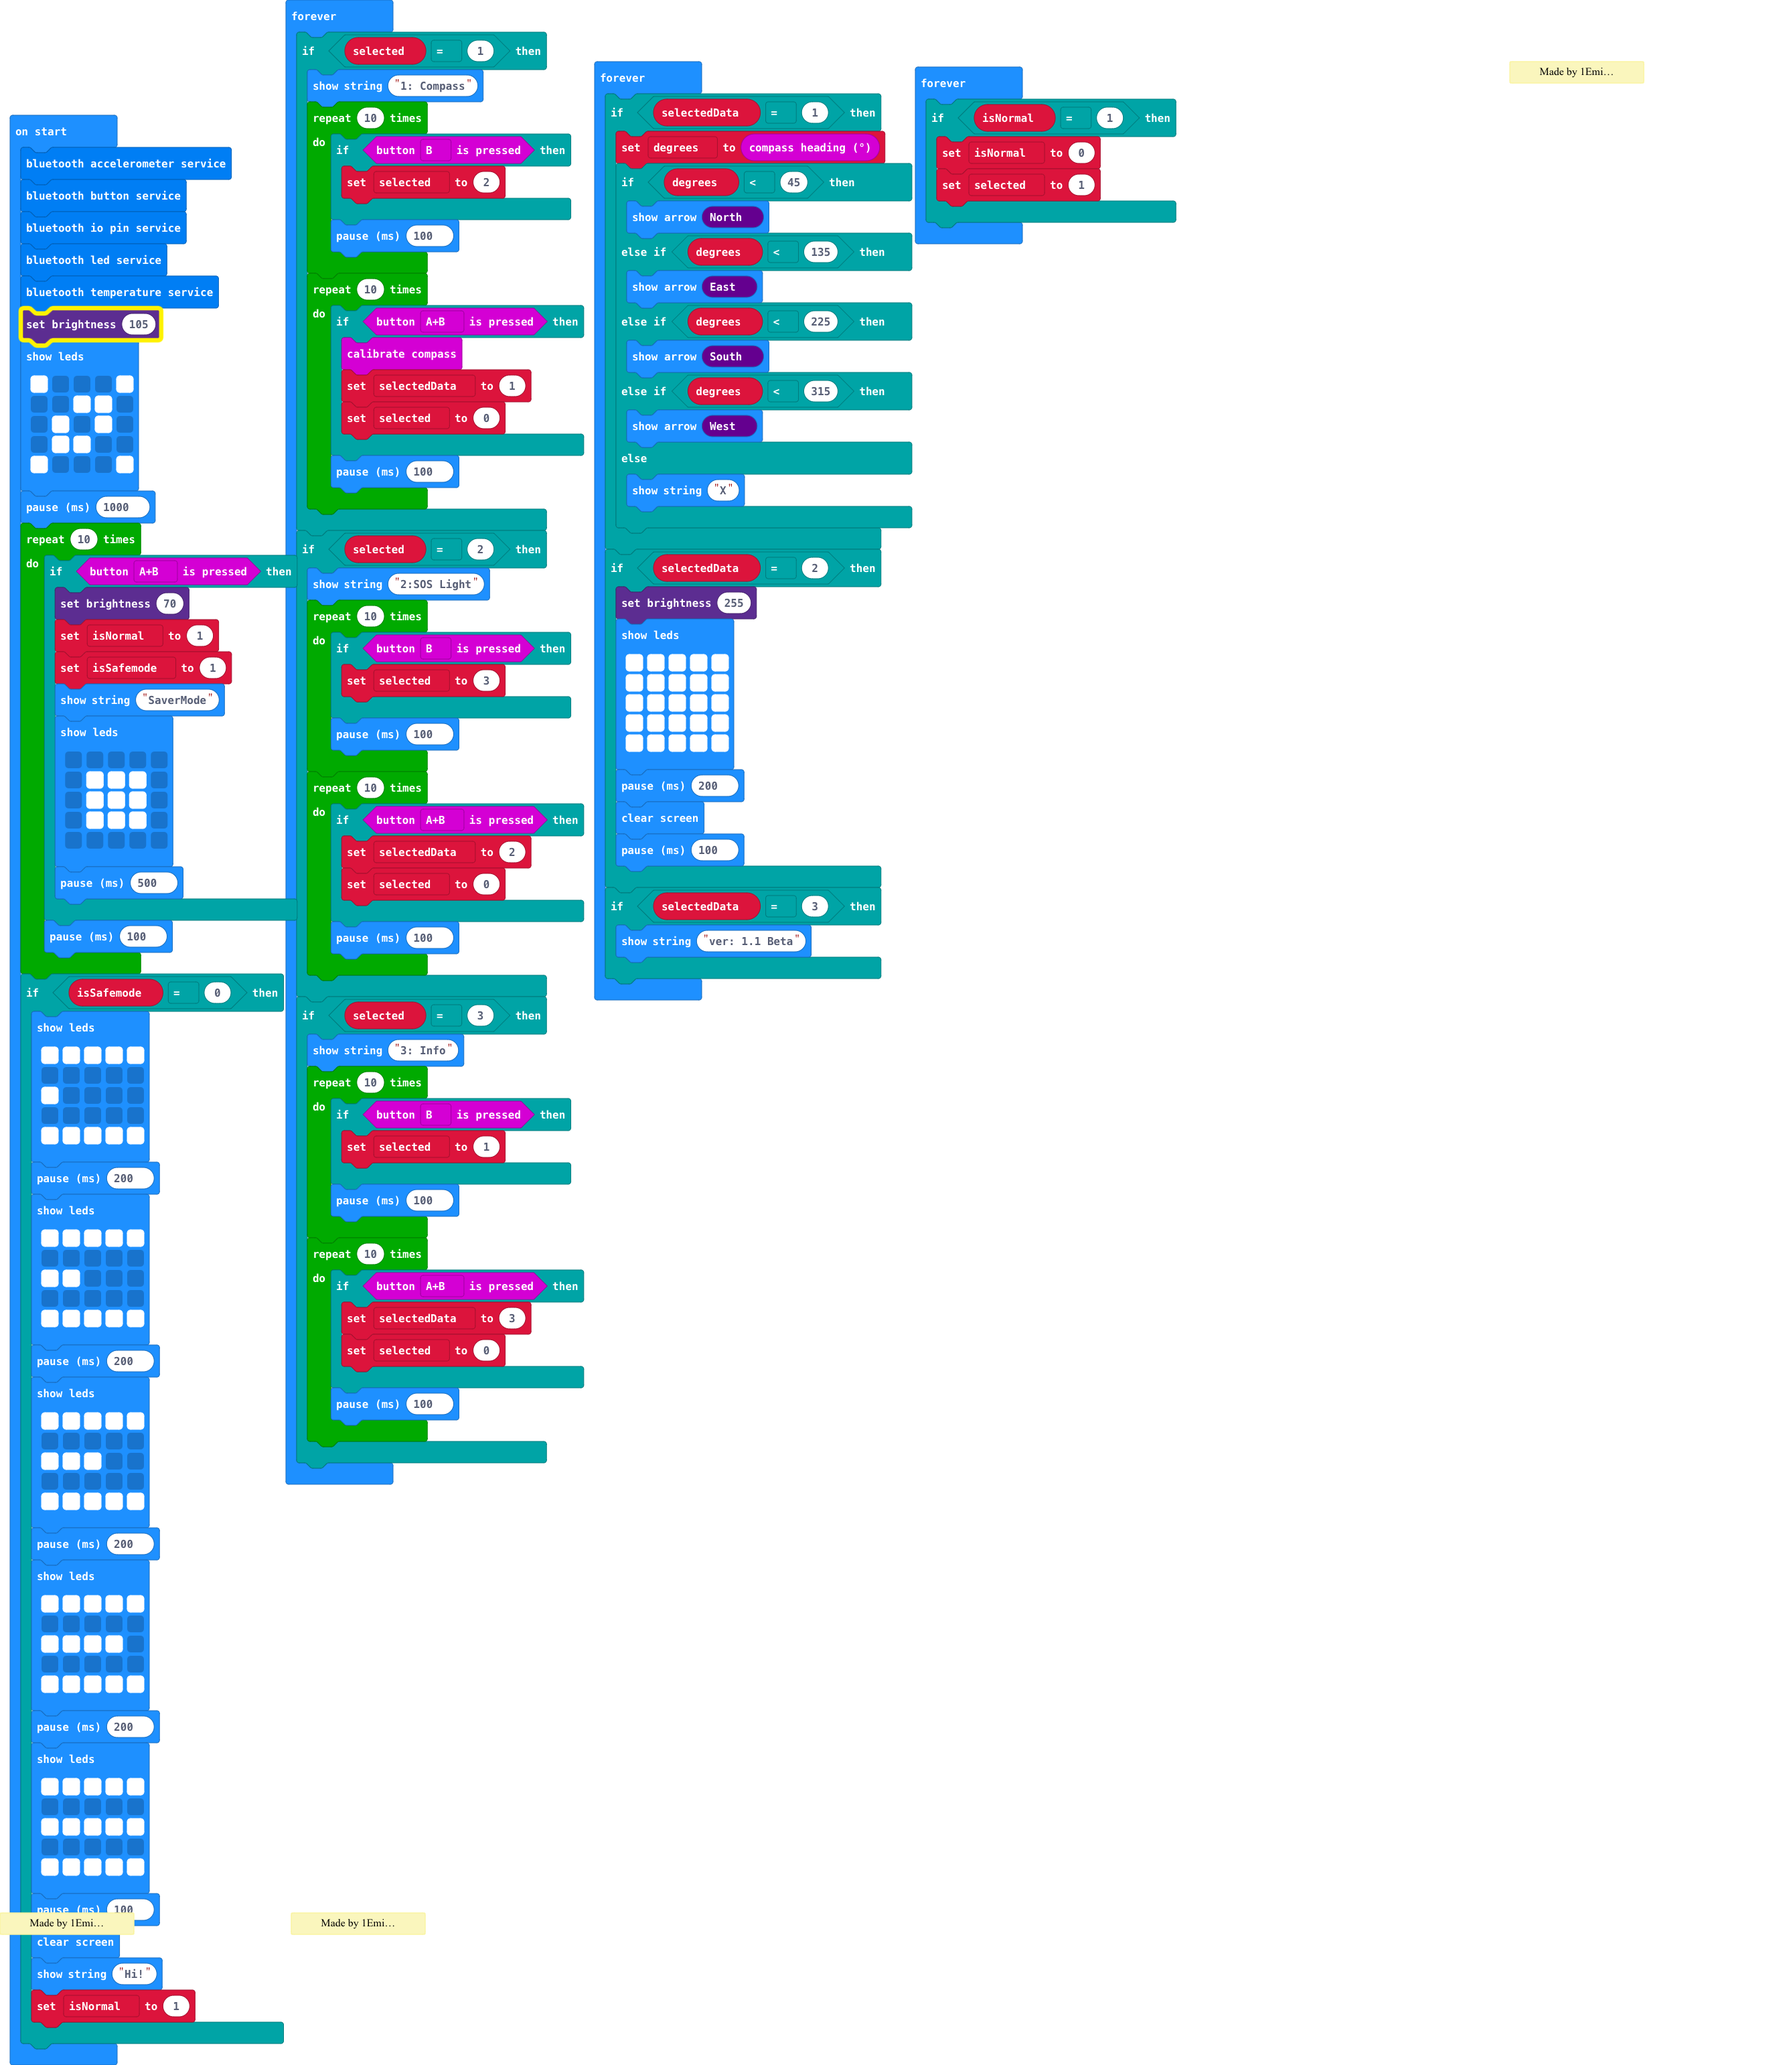
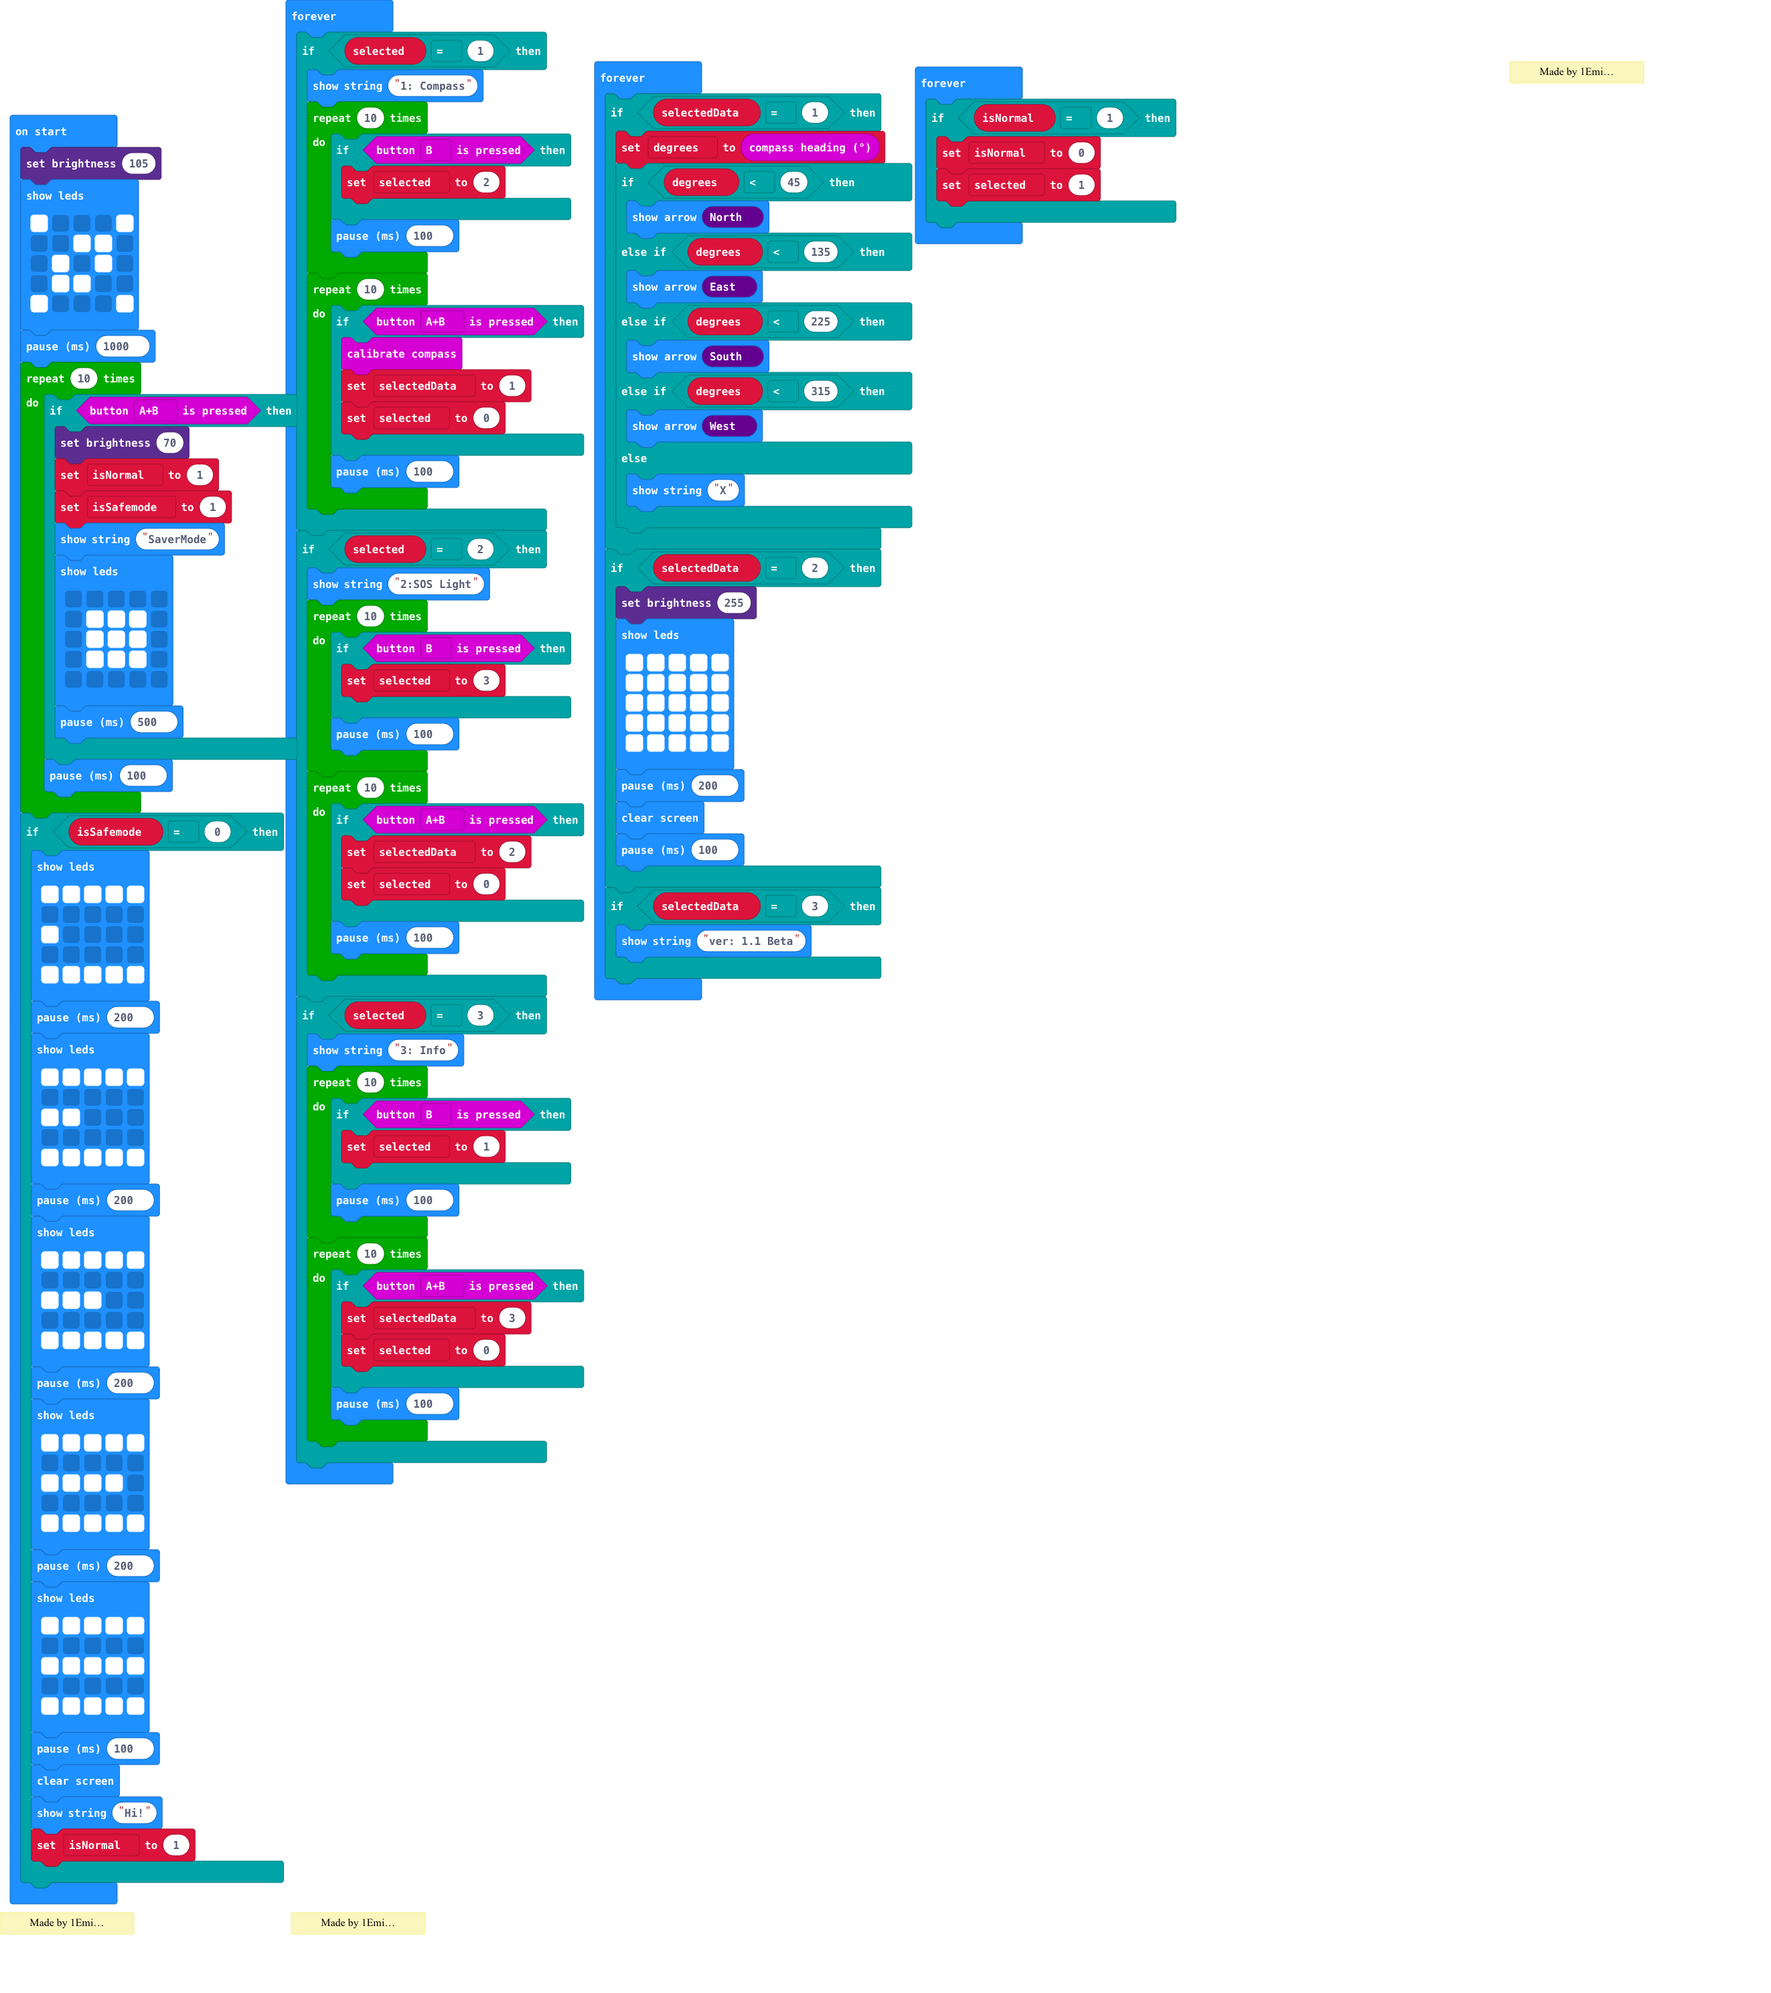
work

Changed region(s): [[0.0, 0.0, 0.682, 1.0], [0.8681, 0.0312, 0.8991, 0.0625]]

diff --git a/main.ts b/main.ts
@@ -18,11 +18,6 @@ let selectedData = 0
 let selected = 0
 let isSafemode = 0
 let isNormal = 0
-bluetooth.startAccelerometerService()
-bluetooth.startButtonService()
-bluetooth.startIOPinService()
-bluetooth.startLEDService()
-bluetooth.startTemperatureService()
 led.setBrightness(105)
 basic.showLeds(`
     # . . . #
